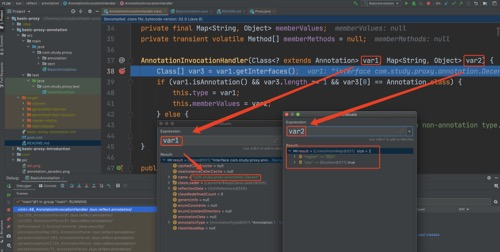
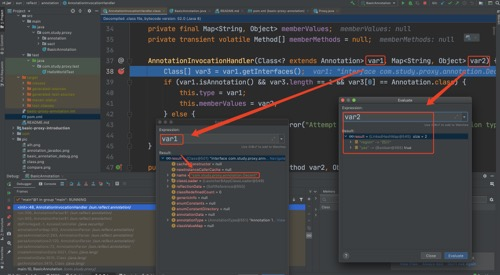
basic-proxy-annotation 基本修改好了

diff --git a/basic-proxy-annotation/src/main/java/com/study/proxy/annotation/Decent.java b/basic-proxy-annotation/src/main/java/com/study/proxy/annotation/Decent.java
@@ -9,7 +9,7 @@ import java.lang.annotation.RetentionPolicy;
 @Retention(RetentionPolicy.RUNTIME)
 public @interface Decent {
     /**
-     * 是个名门正派吗?
+     * 是名门正派吗?
      *
      * @return 是则返回 true, 否则返回 false (默认值是 true)
      */

diff --git a/basic-proxy-annotation/src/main/java/com/study/proxy/BasicAnnotation.java b/basic-proxy-annotation/src/main/java/com/study/proxy/BasicAnnotation.java
@@ -6,6 +6,7 @@ import com.study.proxy.sect.Emei;
 public class BasicAnnotation {
 
     public static void main(String[] args) {
+
         // 获取 Decent 的实例
         Decent decent = Emei.class.getAnnotation(Decent.class);
         // 调用这个实例的 region() 方法

diff --git a/basic-proxy-annotation/README.md b/basic-proxy-annotation/README.md
@@ -6,7 +6,7 @@
 
 ## 主要结论
 1. 注解(`annotation`)是一种特殊的接口(`interface`)
-2. 注解中可以定义方法
+2. 注解中可以定义方法，方法被执行时，动态代理机制会生效
 
 ## 正文
 [前文](../README.md) 讨论了动态代理的一个小例子。
@@ -36,7 +36,8 @@
 在这些小说里，配角遇到倒霉事多半只能认栽，而主角则时常有好运伴随，总能逢凶化吉。
 普通接口并不能用来修饰其他元素，而注解就可以(是不是也可以看作一种主角光环呢?)。
 
-例如在 [juni4](https://junit.org/junit4/) 中，我们可以用 `@Test` 注解来修饰需要测试的方法。
+引入 [juni4](https://junit.org/junit4/) 的 `jar` 包后，
+我们可以用 `@Test` 注解来修饰需要测试的方法。
 我在 [HelloWorldTest.java](src/test/java/com/study/proxy/test/HelloWorldTest.java) 中写了如下代码
 ```java
 package com.study.proxy.test;
@@ -55,8 +56,11 @@ public class HelloWorldTest {
 在这段代码里，`testHelloWorld()` 方法是被 `@Test` 注解修饰的。
 但是我们不能用普通的接口(例如 `java.util.List`)来修饰 `testHelloWorld()` 方法
 
-关于注解也是一种接口，还可以多解释一些(没兴趣的读者可以略过这一段)。
-下一小节会有一个注解 [Decent.java](src/main/java/com/study/proxy/annotation/Decent.java) 出现，这里我们先征用一下。
+关于注解也是一种接口，
+还可以多解释一些(没兴趣的读者可以略过这一段)。
+下一小节会有一个注解 [Decent.java](src/main/java/com/study/proxy/annotation/Decent.java) 出现，
+这里我们先征用一下。
+
 在当前目录下执行如下命令
 ```bash
 mvn clean compile
@@ -67,13 +71,18 @@ mvn clean compile
 javap -v -p -cp target/classes/ com.study.proxy.annotation.Decent
 ``` 
 ![利用 javap 命令查看字节码文件](../pic/javap.png)
-在红框部分可以看到，`Decent` 确实是一个 `interface`(字节码文件的结构又是一个比较大的话题，作者的相关知识也比较有限，这里就不展开了)。
+在红框部分可以看到，
+`Decent` 确实是一个 `interface`(字节码文件的结构又是一个比较大的话题，作者的相关知识也比较有限，这里就不展开了)。
 
 ### 动手写注解
 参考 [倚天屠龙记](https://zh.wikipedia.org/zh/%E5%80%9A%E5%A4%A9%E5%B1%A0%E9%BE%99%E8%AE%B0) 中的设定，
-江湖上有些门派以名门正派自居，而明教则常被这些名门正派视为异类。
-我们可以把 *名门正派* 看成一种标签，可以用注解模拟这种打标签的逻辑。
+江湖上有些门派以名门正派自居，
+而明教则常被这些名门正派视为异类。
+
+我们可以把 **名门正派** 看成一种标签，
+可以用注解模拟这种打标签的逻辑。
 我们就写一个名为 `@Decent` 的注解来描述这种标签吧。
+
 其完整代码在 [Decent.java](src/main/java/com/study/proxy/annotation/Decent.java) 中。
 这个类的主要代码如下
 ```java
@@ -83,7 +92,7 @@ javap -v -p -cp target/classes/ com.study.proxy.annotation.Decent
 @Retention(RetentionPolicy.RUNTIME)
 public @interface Decent {
     /**
-     * 是个名门正派吗?
+     * 是名门正派吗?
      *
      * @return 是则返回 true, 否则返回 false (默认值是 true)
      */
@@ -124,7 +133,10 @@ public class BasicAnnotation {
 ```
 
 ### 注解是如何被动态代理支持的?
-不出意外的话，`BasicAnnotation` 类中的 `main` 方法运行完之后，会有 "四川" 展示出来
+不出意外的话，`BasicAnnotation` 类中的 `main` 方法运行完之后，会有
+> 四川
+
+展示出来
 ![运行结果](../pic/emei_result.png)
 
 上述代码中主要做了两件事
@@ -132,25 +144,110 @@ public class BasicAnnotation {
 2. 调用这个实例的 `region()` 方法 
  
 既然注解本质上也是接口，那么这里就有个问题，`Decent` 中定义的 `region()` 方法是谁实现的呢?
-比如我们在某些代码里调用 `java.util.List` 中的 `get(int)` 方法时，总归需要有某个子类来实现这个方法。
+
+比如我们在某些代码里调用 `java.util.List` 中的 `get(int)` 方法时，
+总归需要有某个子类来实现这个方法吧。
 现在的问题也是类似的。
-如果这里涉及动态代理的话，那么照理说应该会用到 `java.lang.reflect.Proxy` 这个类(相关内容可以参考 [前文](../README.md))。
-我们在 `java.lang.reflect.Proxy` 中加个断点
-![断点的位置](../pic/proxy_breakpoint.png)
+
+
+如果这里涉及动态代理的话，
+那么照理说应该会用到 `java.lang.reflect.Proxy` 这个类(相关内容可以参考 [前文](../README.md))。
+我们在 `java.lang.reflect.Proxy` 中加个断点(简称为 **断点A**)
+![断点A的位置](../pic/proxy_breakpoint.png)
 然后 `debug` `BasicAnnotation` 类的 `main` 方法
 ![debug BasicAnnotation](../pic/basic_annotation_debug.png) 
-这时候会遇到刚才的断点。
-我们在这了观察一下，会发现 `h` 的类型是 `sun.reflect.annotation.AnnotationInvocationHandler`
+这时候会遇到 **断点A**。
+
+我们在这观察一下，会发现 `h` 的类型是 `sun.reflect.annotation.AnnotationInvocationHandler`
 ![aih.png](../pic/aih.png)
 那我们再到 `sun.reflect.annotation.AnnotationInvocationHandler` 这个类中观察一下。
-我在 38 行打了个断点，然后重新 `debug` 一次。
-第一次到 38 行这个断点时，是和 `@Rentention` 注解有关。
-![retention](../pic/retention.png)
-这次放过。
-第二次来到这个断点时，我观察了一下，结果如下
-![decent](../pic/decent.png)
 
-运行到 41 行的时候
+我在第 38 行加了 **断点B**。
+我们重新 `debug` 一次。
+
+第一次运行到 **断点B** 时，和 `@Rentention` 注解有关。
+![retention](../pic/debug_retention.png)
+在 37 行看到入参的名称分别是 `var1` 和 `var2`。
+
+我们观察一下 `var1`，看来它和注解的实际类型对应
+![retention var1](../pic/retention_var1.png)
+
+再观察一下 `var2`，看来它和注解中定义的方法有关
+![retention var2](../pic/retention_var2.png)
+
+这里有点绕。
+`var2` 是一个 `Map<String, Object>`，它的 `size` 是 1，也就是说其中只有 1 个 kv 对。
+这个唯一的 kv 对信息如下。
+* `k`: 是一个 `String`，内容为 `value`(就是 `v` `a` `l` `u` `e` 这 5 个 `char` 组成的字符串)
+* `v`: 是一个 `java.lang.annotation.RetentionPolicy` 类型的枚举值。
+
+![](../pic/retention_var2_details.png)
+
+当第 41 行执行过之后
+![](../pic/pass_line_41.png)
+`var2` 对应的 `Map` 就被 `this.memberValues` 引用了。
+
+我们 `Resume Program`，
+然后会第二次来到断点B，
+此时 `var1` 和 `Decent` 对应
+![](../pic/decent_var1.png)
+
+而 `var2` 对应的 `Map` 这次则包含了两个 `kv` 对
+![](../pic/decent_var2.png)
+
+* 其中的一个 `kv` 对: `"region"` -> `"四川"`
+* 另一个 `kv` 对: `"yes"` -> `true`
+
+
+到这里，
+可以猜测一下，
+注解中的方法名以及对应的值会被保存在 `var2` 中，
+并最终被赋给 `this.memberValues`。
+
+然后我们来试试在其他地方打断点。
+在 [BasicAnnotation.java](src/main/java/com/study/proxy/BasicAnnotation.java) 的 `main` 方法中，
+`Decent` 注解的 `region` 方法会被调用。
+
+既然这里涉及动态代理，
+打蛇打七寸，擒贼先擒王，
+我们直接去 `sun.reflect.annotation.AnnotationInvocationHandler` 类的 `invoke` 方法里加上 **断点C**。
+
+**断点C** 的具体位置如下图所示。
+
+![断点C的具体位置](../pic/aih_line48.png)
+
+再次 `debug` [BasicAnnotation.java](src/main/java/com/study/proxy/BasicAnnotation.java) 的 `main` 方法，
+
+程序会运行到 **断点C** 这里
+![](../pic/decent_var2_detail.png)
+在 **断点C** 这里，会执行如下语句
 ```java
-this.memberValues = var2;
+String var4 = var2.getName();
 ```
+`var2` 是一个 `java.lang.reflect.Method`，
+这个 `Method` 和 `Decent` 注解中的 `region` 方法对应。
+所以 `var4` 的值将会变为 `region`。
+继续执行，我们会看到程序执行到了 81 行(从 48 行到 81 行其实还是有一些逻辑的，这里跳过了，读者如果有兴趣可以自行打断点观察详情)
+![](../pic/aih_line81.png)
+
+这时候 `this.memberValues` 的作用就体现出来了，
+这个 `Map` 中与 `"region"` 对应的值就是 `"四川"`。
+
+
+现在我来概括一下整体的逻辑。
+
+#### 注解被动态代理支持的整体逻辑
+如果一个 **注解A** 中定义了 `N` 个方法(这里先不考虑 `toString` `hashCode` 等特殊方法)，
+那么这 `N` 个方法以及这 `N` 个方法的返回值可以组合成 `N` 个 `kv` 对。
+
+在生成与 **注解A** 对应的 `sun.reflect.annotation.AnnotationInvocationHandler` 的实例时，
+这 `N` 个 `kv` 对会被保存到 `sun.reflect.annotation.AnnotationInvocationHandler` 的
+`this.memberValues` 里。
+
+当我们调用这 `N` 个方法中的任意一个时，
+都会被转化为对 `sun.reflect.annotation.AnnotationInvocationHandler` 中名为 `invoke` 方法的调用。
+在这个 `invoke` 方法中，
+通过对 `this.memberValues` 进行查询，
+就能得知对应的值，
+将这个值返回即可。
+

diff --git a/README.md b/README.md
@@ -504,3 +504,5 @@ public class BasicProxy {
 
 
 ![](pic/compare.png)
+
+注解中的一些功能也是通过动态代理来实现的，可以参考 [动态代理在注解(`annotation`)中的应用](basic-proxy-annotation/README.md) 一文
